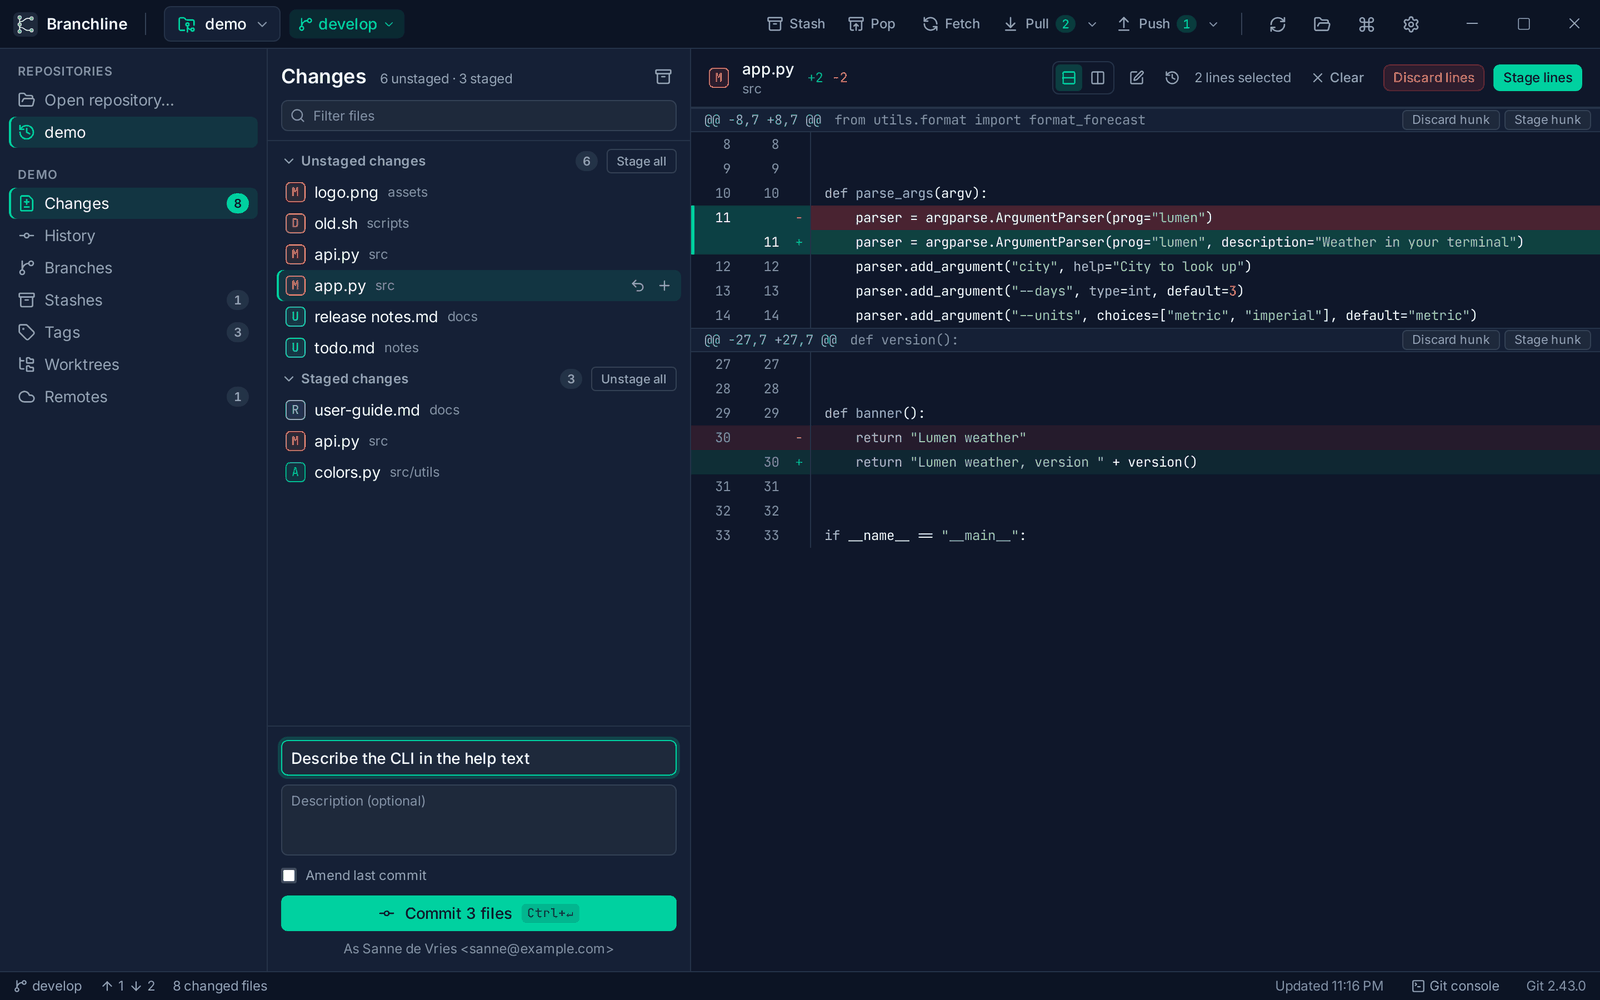
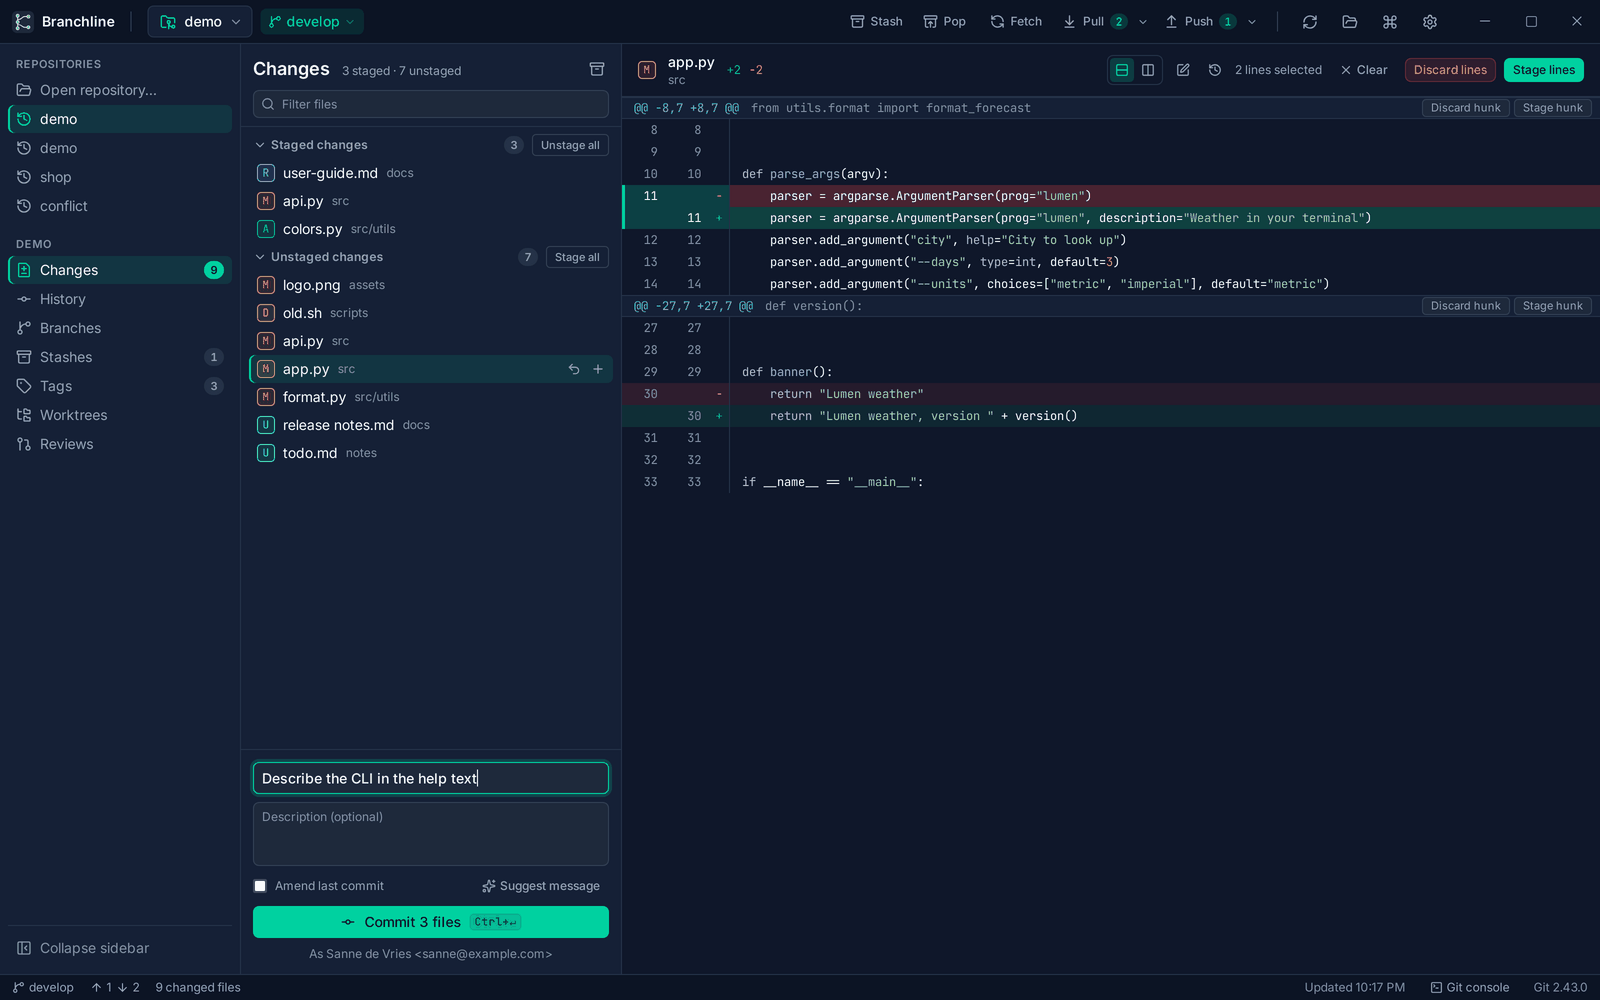
feat(changes): list staged files above unstaged ones

diff --git a/src/features/changes/staging.test.tsx b/src/features/changes/staging.test.tsx
@@ -53,7 +53,15 @@ describe("staging", () => {
       repo: REPO.path,
       paths: ["src/app.ts"],
     });
-    await screen.findByText("1 unstaged · 2 staged");
+    await screen.findByText("2 staged · 1 unstaged");
+  });
+
+  it("lists staged changes above unstaged ones", async () => {
+    const { list } = await openRepo();
+    const groups = within(list)
+      .getAllByRole("group")
+      .map((g) => g.getAttribute("aria-label")?.replace(/ \(\d+\)$/, ""));
+    expect(groups).toEqual(["Staged changes", "Unstaged changes"]);
   });
 
   it("stages and unstages the selected file with Space", async () => {
@@ -62,10 +70,11 @@ describe("staging", () => {
       if (cmd === "unstage_files") return REPO;
     });
     act(() => list.focus());
-    await user.keyboard("{ArrowDown}");
+    // Staged files come first, so the unstaged ones start one row lower.
+    await user.keyboard("{ArrowDown}{ArrowDown}");
     expect(option(list, "app.ts")).toHaveAttribute("aria-selected", "true");
     await user.keyboard(" ");
-    await screen.findByText("1 unstaged · 2 staged");
+    await screen.findByText("2 staged · 1 unstaged");
     // The selection moved to the next unstaged file.
     expect(option(list, "new file.md")).toHaveAttribute("aria-selected", "true");
     expect(calls.filter((c) => c.cmd === "stage_files")).toHaveLength(1);
@@ -106,7 +115,7 @@ describe("staging", () => {
   it("deleting an untracked file says so", async () => {
     const { user, list } = await openRepo();
     act(() => list.focus());
-    await user.keyboard("{ArrowDown}{ArrowDown}{Delete}");
+    await user.keyboard("{ArrowDown}{ArrowDown}{ArrowDown}{Delete}");
     expect(
       await screen.findByRole("alertdialog", { name: "Delete new file.md?" }),
     ).toHaveTextContent("deleted from disk");

diff --git a/src/App.test.tsx b/src/App.test.tsx
@@ -31,7 +31,7 @@ describe("App", () => {
     expect(within(list).getAllByRole("img", { name: "Modified" })).toHaveLength(1);
     expect(within(list).getAllByRole("img", { name: "Untracked" })).toHaveLength(1);
     expect(within(list).getAllByRole("img", { name: "Renamed" })).toHaveLength(1);
-    expect(screen.getByText("2 unstaged · 1 staged")).toBeInTheDocument();
+    expect(screen.getByText("1 staged · 2 unstaged")).toBeInTheDocument();
     // Branch is visible in the title bar and status bar.
     expect(screen.getAllByText("main").length).toBeGreaterThanOrEqual(2);
     // The opened repository is remembered.
@@ -55,12 +55,13 @@ describe("App", () => {
     expect(within(list).queryAllByRole("option", { selected: true })).toHaveLength(0);
     await user.keyboard("{ArrowDown}");
     expect(within(list).getAllByRole("option")[0]).toHaveAttribute("aria-selected", "true");
-    await screen.findByRole("region", { name: "Changes in src/app.ts" });
+    // Staged files come first.
+    await screen.findByRole("region", { name: "Changes in lib/b.rs" });
 
     await user.keyboard("{ArrowDown}{ArrowDown}");
     const options = within(list).getAllByRole("option");
     expect(options[2]).toHaveAttribute("aria-selected", "true");
-    await screen.findByRole("region", { name: "Changes in lib/b.rs" });
+    await screen.findByRole("region", { name: "Changes in notes/new file.md" });
   });
 
   it("shows a specific error for a folder that is not a repository", async () => {

diff --git a/src/features/changes/ChangesView.tsx b/src/features/changes/ChangesView.tsx
@@ -169,8 +169,8 @@ export function ChangesView({
 
   const summary = [
     groups.conflicted.length && plural(groups.conflicted.length, "conflict"),
-    groups.unstaged.length && `${groups.unstaged.length.toLocaleString()} unstaged`,
     groups.staged.length && `${groups.staged.length.toLocaleString()} staged`,
+    groups.unstaged.length && `${groups.unstaged.length.toLocaleString()} unstaged`,
   ].filter(Boolean);
 
   return (

diff --git a/src/features/changes/changeModel.ts b/src/features/changes/changeModel.ts
@@ -20,7 +20,8 @@ export interface GroupedChanges {
   staged: ChangeEntry[];
 }
 
-export const AREA_ORDER: ChangeArea[] = ["conflicted", "unstaged", "staged"];
+// Staged first, under conflicts: what goes into the next commit is on top.
+export const AREA_ORDER: ChangeArea[] = ["conflicted", "staged", "unstaged"];
 
 export const AREA_LABEL: Record<ChangeArea, string> = {
   conflicted: "Conflicts",

diff --git a/MANUAL.md b/MANUAL.md
@@ -65,7 +65,8 @@ Updates are signed with Branchline's own update key, so only genuine releases ar
 ## Changes and commits
 
 - Changed files from `git status`: modified, added, deleted, renamed (with source path), copied,
-  type changes, untracked and conflicted files, split into conflicts, unstaged and staged.
+  type changes, untracked and conflicted files, split into conflicts, staged (what goes
+  into the next commit, on top) and unstaged.
 - Diff viewer for unstaged, staged and untracked files, with line numbers, hunk headers, CRLF and
   "no newline at end of file" handling, binary detection and a guard for very large diffs.
 - One column or side by side (toggle above every diff, remembered). Side by side pairs removed

diff --git a/CHANGELOG.md b/CHANGELOG.md
@@ -48,6 +48,8 @@ Branchline, and choose your AI: Ollama, any OpenAI-compatible server, Claude or 
 
 ### Changed
 
+- Changes lists staged files above unstaged ones, so what goes into the next commit is on
+  top.
 - In a narrow window, History gives the description room first: Commit, Date and Author make
   way, and the commit details panel shrinks.
 - Reviews is shown whenever a GitLab account is connected. In a repository without a remote
